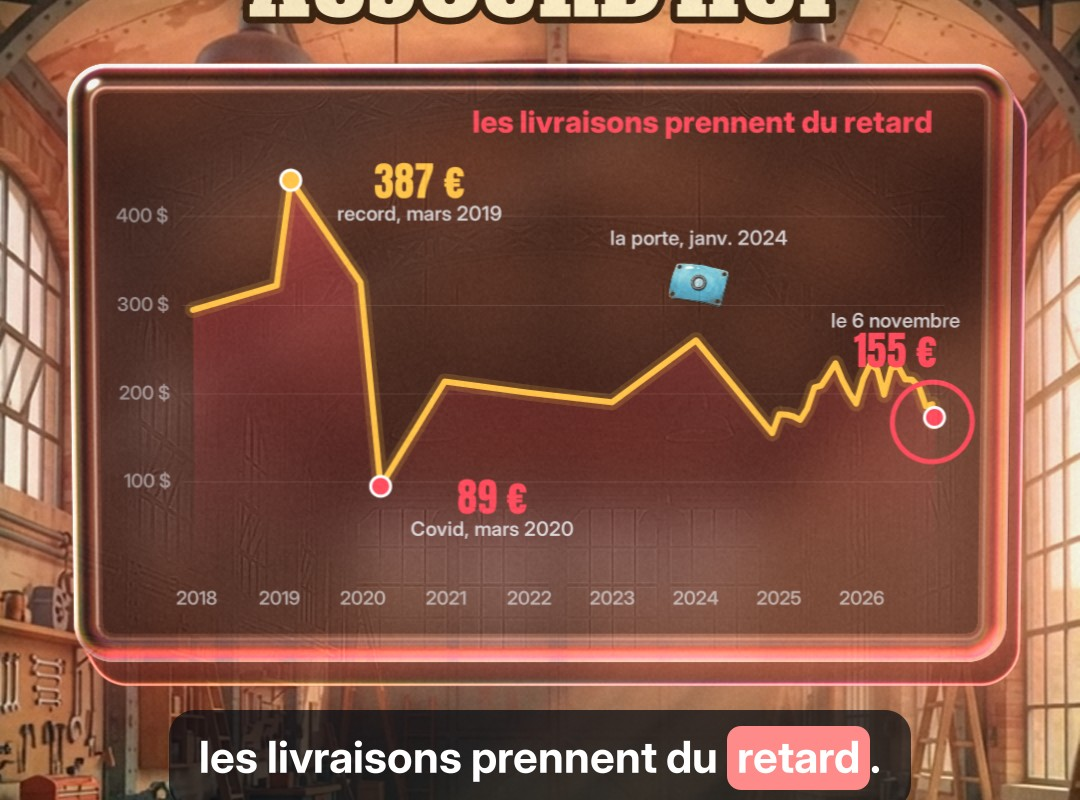
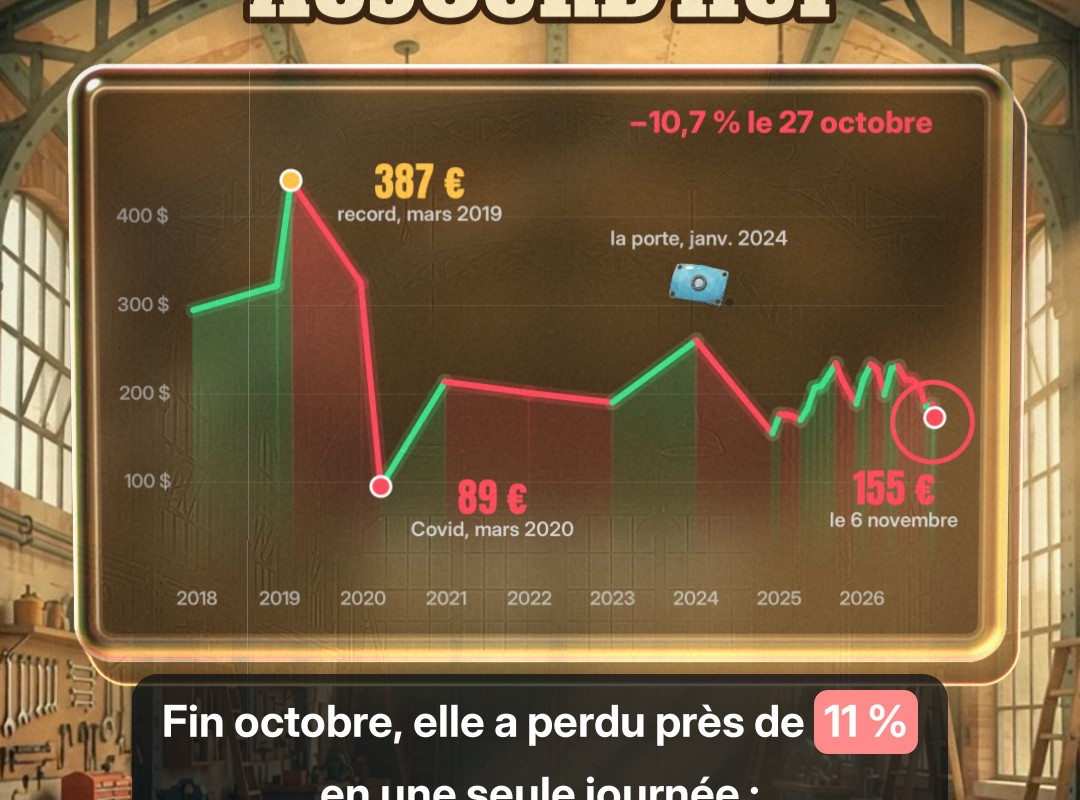
Boeing : courbe verte à la hausse, rouge à la baisse
Claude-Session: https://claude.ai/code/session_01VFT2ZKYV9NwmFvCsfcTKi7

diff --git a/episodes/2026-11-10_boeing/video_col.py b/episodes/2026-11-10_boeing/video_col.py
@@ -304,10 +304,14 @@ def chart_glass(cv, t, t0, dx=0.0):
         dend = D0+(2026.86-D0)*inout((t-t0-.3)/2.9)
         if dend <= D0+.01: return
         pts = [(X(dd), Y(v)) for dd, v in BA if dd <= dend]+[(X(dend), Y(ba_at(dend)))]
-        kk.move_to(pts[0][0], yb); [kk.line_to(*p_) for p_ in pts]; kk.line_to(pts[-1][0], yb); kk.close_path()
-        g = cairo.LinearGradient(0, yt, 0, yb); g.add_color_stop_rgba(0, 1, .30, .37, .40); g.add_color_stop_rgba(1, 1, .30, .37, 0); kk.set_source(g); kk.fill()
-        kk.move_to(*pts[0]); [kk.line_to(*p_) for p_ in pts]; kk.set_line_join(cairo.LINE_JOIN_ROUND); kk.set_line_cap(cairo.LINE_CAP_ROUND)
-        kk.set_line_width(16); col(kk, S.GD, .18); kk.stroke_preserve(); kk.set_line_width(6); col(kk, S.GD); kk.stroke()
+        UP, DN = (.25, .88, .54), (1, .30, .37)                          # vert quand le cours monte, rouge quand il baisse
+        segs = [(p0, p1, UP if p1[1] <= p0[1] else DN) for p0, p1 in zip(pts, pts[1:])]
+        for (p0, p1, cl) in segs:                                         # aire sous la courbe, teintée segment par segment
+            e_ = 1.2; kk.move_to(p0[0]-e_, yb); kk.line_to(p0[0]-e_, p0[1]); kk.line_to(p1[0]+e_, p1[1]); kk.line_to(p1[0]+e_, yb); kk.close_path()
+            g = cairo.LinearGradient(0, yt, 0, yb); g.add_color_stop_rgba(0, *cl, .38); g.add_color_stop_rgba(1, *cl, 0); kk.set_source(g); kk.fill()
+        kk.set_line_cap(cairo.LINE_CAP_ROUND)
+        for wdt, al in ((16, .2), (6, 1.0)):
+            for (p0, p1, cl) in segs: kk.move_to(*p0); kk.line_to(*p1); kk.set_line_width(wdt); kk.set_source_rgba(*cl, al); kk.stroke()
         kk.arc(*pts[-1], 9, 0, 2*math.pi); col(kk, S.WHITE); kk.fill()
         def mark(dd, v, big, small, colr, dy, tt, xo=0):
             if dend < dd or t < tt: return
@@ -319,7 +323,7 @@ def chart_glass(cv, t, t0, dx=0.0):
         if dend > 2024.02 and t > t0+1.9:
             x, y = X(2024.02), Y(ba_at(2024.02)); prop(kk, 'porte', x, y-58, h=52, k=t-t0-1.9, rot=-.2, shadow=False)
             T(kk, "la porte, janv. 2024", x, y-104, 'sb', 20, S.ICE, 'c', .8*ent(t-t0-2.0, .3))
-        mark(M(2026, 11, 6), 173.40, f"155{NB}€", "le 6 novembre", S.RD, -64, t0+3.2, -40)
+        mark(M(2026, 11, 6), 173.40, f"155{NB}€", "le 6 novembre", S.RD, 74, t0+3.2, -40)
         if t > 46.3:
             a = ent(t-46.3, .3)*(1-ent(t-48.3, .25)); T(kk, f"−60{NB}% depuis le record", w-60, 40, 'xb', 30, S.RD, 'r', a)
         if t > 48.4:
@@ -327,7 +331,7 @@ def chart_glass(cv, t, t0, dx=0.0):
             kk.arc(x, y, 40*u, 0, 2*math.pi); kk.set_line_width(5); col(kk, S.RD); kk.stroke()
             T(kk, f"−10,7{NB}% le 27 octobre", w-60, 40, 'xb', 30, S.RD, 'r', ent(t-48.45, .3)*(1-ent(t-51.9, .2)))
         if t > 52.1: T(kk, "les livraisons prennent du retard", w-60, 40, 'xb', 30, S.RD, 'r', ent(t-52.1, .3))
-    S.tp(cv, 900, 560, d, 540+dx, 665+40*(1-ent(k, .45)), 'rouge', rx=round(.05+.25*(1-ent(k, .45)), 3), bev=30)
+    S.tp(cv, 900, 560, d, 540+dx, 665+40*(1-ent(k, .45)), 'or', rx=round(.05+.25*(1-ent(k, .45)), 3), bev=30)
 def b_today(cv, c, t, k):
     if t < 54.2:
         out = ease((t-53.6)/.55) if t > 53.6 else 0
